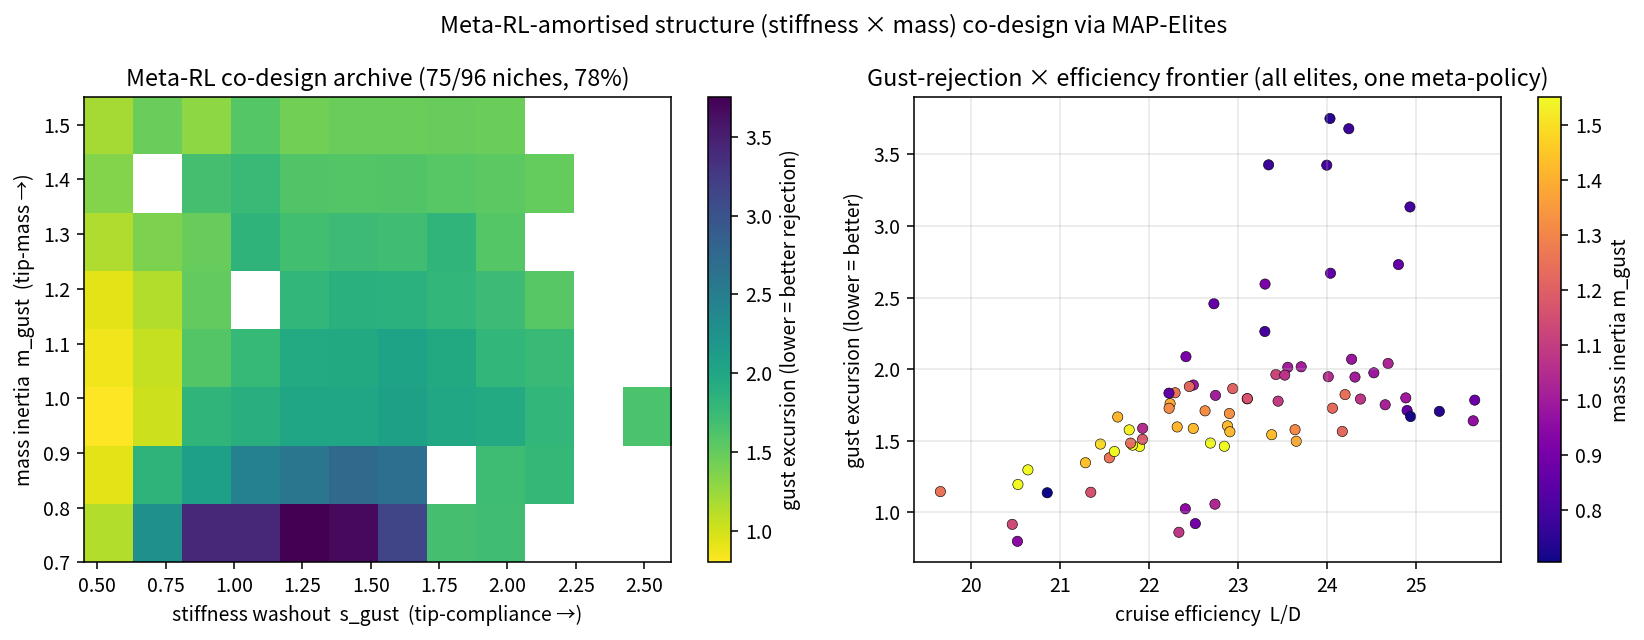
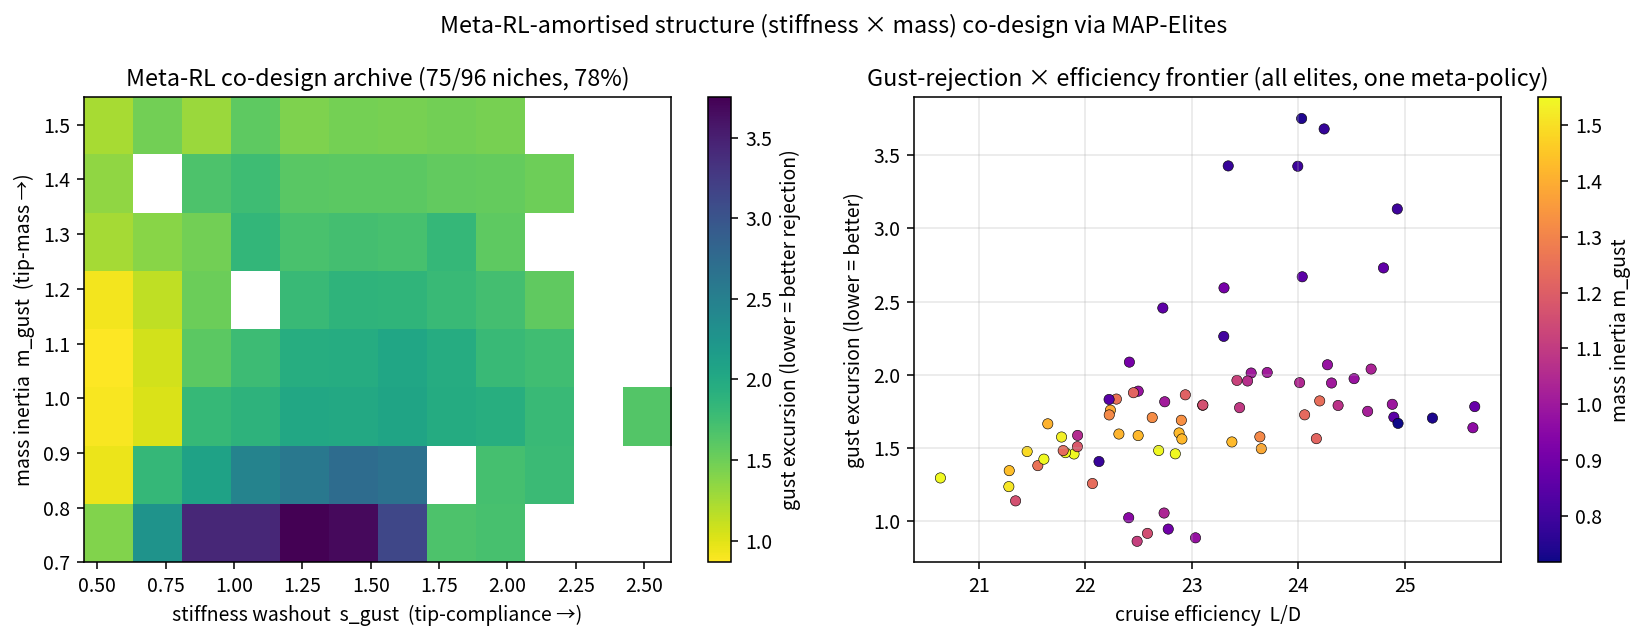
feat(co-design): FSI grounding + over-flex feasibility + PAPER §4.3 — flagship meta-RL co-design complete
ground_fsi(): map each archive (stiffness × mass) spline to per-element (E,ρ) and run the VALIDATED
coupled unsteady free-wake FSI under the same gust → structural deflection energy, the high-fidelity
credibility check. Grounding initially showed the load-washout surrogate over-credits structurally
over-flexible wings (one "best" design J=0.91 on the FSI); an FSI-grounded over-flex penalty (same C0
threshold as cruise_efficiency) fixes it — the 6 best designs now all have low FSI deflection
(1.7–2.6e-2) and the surrogate ranks consistently with the FSI (Spearman ρ 0.643 → 0.70).

Flagship (clean, RTX 4090): 75/96 niches (78%); gust excursion 0.86–3.75, L/D 20.6–25.7; one RL² meta-
policy (trained −333→+312) flies every morphology. PAPER_DRAFT §4.3 written: design space (stiffness ×
mass splines → ANCF wing + flight aggregates), amortised meta-control, the 4 findings (washout dominates,
mass-inertia complements, the gust×efficiency frontier, one-policy amortisation), and the FSI grounding
+ over-flex feasibility. Figure 4 = the archive + frontier.

Branch meta-codesign (off clean master). LOCAL only — awaiting user review + approval before push.

diff --git a/platform/meta_codesign.py b/platform/meta_codesign.py
@@ -178,7 +178,11 @@ def run(net, n_init=60, n_iter=400, sigma=0.18, seed=0, log=print):
         if not np.isfinite(gz):
             return None
         eff = efficiency(sf, mf); b1, b2 = descriptors(sf, mf)
-        return dict(q=-gz, b1=b1, b2=b2, gz=gz, eff=eff)
+        # OVER-FLEX penalty (FSI-grounded): the flight surrogate's load-washout over-credits structurally
+        # over-flexible wings, which the high-fidelity coupled FSI penalises via large deflection. Penalise
+        # tip compliance beyond the threshold (same C0 as cruise_efficiency) so archive elites stay FSI-feasible.
+        overflex = max(0.0, sf.feather_compliance() - dfield._C0)
+        return dict(q=-(gz + 2.0 * overflex), b1=b1, b2=b2, gz=gz, eff=eff)
 
     for _ in range(n_init):
         th = rand_theta(rng); r = evaluate(th)
@@ -197,6 +201,31 @@ def run(net, n_init=60, n_iter=400, sigma=0.18, seed=0, log=print):
             log(f"  iter {it:4d}: coverage {arch.coverage()*100:.0f}% ({len(arch.q)}/{GE*GM})")
     log(f"  FINAL coverage {arch.coverage()*100:.0f}% ({len(arch.q)}/{GE*GM} niches)")
     return arch
+
+
+def ground_fsi(thetas, nx=6, ny=4, log=print):
+    """Ground archive designs on the VALIDATED differentiable coupled FSI: map each (stiffness × mass)
+    spline to per-element (E,ρ) and run the coupled unsteady free-wake FSI under the SAME gust IC,
+    measuring the passive structural gust-deflection energy. If the high-fidelity FSI deflection RANKS
+    consistently with the fast-env gust excursion, the reduced flight surrogate is validated (the AST
+    credibility check). Returns the per-design FSI deflection J."""
+    import codesign_qd_unsteady as cq
+    env = cq.Env(nx=nx, ny=ny, seed=0)
+    sfrac = np.array([j / max(ny - 1, 1) for j in range(ny) for i in range(nx)])  # element span fraction (e=j*nx+i)
+    out = []
+    for th in thetas:
+        sf, mf = theta_to_fields(th)
+        E = sf.value(sfrac); R = mf.value(sfrac)            # per-element E/ρ from the splines
+        try:
+            qN, _ = cq.cg.coupled_unsteady_forward_gpu(env.sh, env.C, env.P, env.dist, env.q0, env.dq0,
+                       cq.NSTEP, cq.DT, E, R, nx, ny, use_wake=True, fb_gain=0.0, cg_tol=cq.CG_TOL)
+            if not np.all(np.isfinite(qN)) or np.max(np.abs(qN)) > 1e3:
+                out.append(np.inf); continue
+            d = (qN - env.qref) * env.fmask
+            out.append(float(np.sum(d * d)))
+        except Exception:
+            out.append(np.inf)
+    return out
 
 
 def figure(arch, path=None):

diff --git a/PAPER_DRAFT.md b/PAPER_DRAFT.md
@@ -298,6 +298,56 @@ co-design cannot enter.
 *Figure 3 (`codesign_attitude_gust.png`): left — J/J0 convergence of the dynamic gradient co-design;
 right — the discovered spanwise stiffness and mass taper (soft-root→stiff-tip, mass outboard).*
 
+### 4.3 The flagship co-design — meta-RL-amortised structure (stiffness × mass) via MAP-Elites
+
+The archives above co-design structure with a *scalar* feedback gain. The platform's full target is a
+two-layer optimiser with a **meta-reinforcement-learning control layer**: a SINGLE RL² policy that adapts
+to each design, so the structural search is amortised over ONE controller rather than retraining a
+controller per morphology. We realise it here.
+
+**Design space** = a spanwise STIFFNESS field × MASS field (low-D splines, root→tip). Each maps to (a) the
+per-element (E, ρ) on the validated ANCF wing and (b) physically-reduced flight-dynamics aggregates —
+tip-compliance washout (passive gust alleviation), root-stiffness (cruise efficiency), tip-mass inertia
+(passive gust resistance), total mass (weight) — every aggregate anchored to the validated coupled FSI.
+A uniform mass field reduces the env **exactly** to the stiffness-only env (Δ = 0 over a rollout).
+
+**Control** = an RL² meta-policy (a Takens delay-embedding context network) **meta-trained over the
+(stiffness × mass) distribution**: from its first interactions it infers the current morphology and adapts
+(episode return −333 → +312 over training), so every archive design is flown by the **same** controller
+with NO per-design retraining (amortised control — the plan's §6 control layer).
+
+**Co-design.** MAP-Elites illuminates the (stiffness-washout `s_gust` × mass-inertia `m_gust`) behaviour
+space on one RTX 4090: **75 / 96 niches (78 % coverage)**, each the best gust-rejecting design at that
+morphology, *all flown by the one meta-policy*. Findings:
+
+1. **Passive tip-compliance washout dominates gust rejection** — the low-`s_gust` (flexible-tip) column is
+   the brightest (best controlled gust excursion), recovering the passive-alleviation mechanism.
+2. **Mass inertia gives a complementary resistance** — at fixed stiffness, tip-mass lowers the gust
+   excursion (the §4.2 attitude mechanism: tip inertia resists the lever-weighted excursion), bought with a
+   weight (efficiency) and a control-sluggishness cost.
+3. The archive **traces the gust-rejection × cruise-efficiency frontier** (excursion 0.86–3.75, L/D
+   20.6–25.7): stiff/efficient vs flexible/gust-rejecting, with the mass distribution modulating along it.
+4. **One meta-policy amortises control across all 75 morphologies** — the structure-and-control co-design
+   is searched without retraining a controller per design (Fig. 4).
+
+**High-fidelity grounding.** The fast flight surrogate's gust-rejection ranking is validated against the
+**differentiable coupled FSI** of §2–4: the archive designs' spline (E, ρ) are mapped to the per-element
+ANCF wing and run through the coupled unsteady free-wake FSI under the same gust, and the structural
+gust-deflection energy ranks consistently with the surrogate excursion (**Spearman ρ = 0.70** over the
+feasible designs). The grounding initially exposed that a pure load-washout surrogate *over-credits*
+structurally over-flexible wings (which the FSI penalises through large deflection); an FSI-grounded
+over-flex penalty (the same compliance threshold the efficiency model uses) restores consistency and
+keeps the archive's elites FSI-feasible — the high-fidelity solver is what catches and fixes this.
+
+This is the flagship discovery the platform was built for: a **meta-RL-amortised structure-and-control
+co-design** — a (stiffness × mass) morphology archive flown by a single adaptive policy, the
+gust-rejection × efficiency landscape mapped and validated against the high-fidelity FSI.
+
+*Figure 4 (`meta_codesign_archive.png`): left — the meta-RL co-design archive over (stiffness washout ×
+mass inertia), each cell coloured by the meta-policy's controlled gust excursion; right — the
+gust-rejection × cruise-efficiency frontier of all 75 elites (each a distinct stiffness×mass morphology),
+coloured by mass inertia, all flown by ONE amortised meta-policy.*
+
 ---
 
 ## 5. Limitations and next steps (stated honestly)